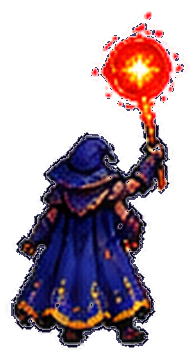
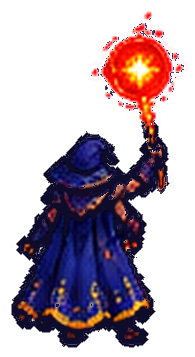
v45: poses de balanço reescaladas (sem encolher), borda branca removida
Claude-Session: https://claude.ai/code/session_01YFC38PcyDKAfPNhJ7r1cKG

diff --git a/sw.js b/sw.js
@@ -1,4 +1,4 @@
-const CACHE='bd1-rpg-v44';
+const CACHE='bd1-rpg-v45';
 const ASSETS=['./','./index.html','./game.html','./lobby.js','./lobby.css','./select_plate.webp','./char_mage.webp','./char_knight.webp','./char_tank.webp','./char_assassin.webp','./panel_mage.webp','./panel_knight.webp','./panel_tank.webp','./panel_assassin.webp','./style.css','./app.js','./anim.js','./mage.js','./mage3/air.png','./mage3/atk1.png','./mage3/atk2.png','./mage3/atk3.png','./mage3/bh1.png','./mage3/bh2.png','./mage3/castdef.png','./mage3/defair.png','./mage3/defearth.png','./mage3/deffire.png','./mage3/defmana.png','./mage3/defwater.png','./mage3/dodge1.png','./mage3/dodge2.png','./mage3/dodge3.png','./mage3/dodge4.png','./mage3/earth.png','./mage3/fire.png','./mage3/fx_air_swirl.png','./mage3/fx_bh_big.png','./mage3/fx_bh_big2.png','./mage3/fx_bh_small.png','./mage3/fx_bh_spikes.png','./mage3/fx_bolt.png','./mage3/fx_comet.png','./mage3/fx_cross.png','./mage3/fx_crystal.png','./mage3/fx_earth_spikes.png','./mage3/fx_fire_fall.png','./mage3/fx_mana_aura.png','./mage3/fx_orb_blue.png','./mage3/fx_orb_orange.png','./mage3/fx_orb_red.png','./mage3/fx_orbb.png','./mage3/fx_ring_floor.png','./mage3/fx_rock.png','./mage3/fx_rocks.png','./mage3/fx_star_big.png','./mage3/fx_star_small.png','./mage3/fx_water_pillar.png','./mage3/fx_whirl.png','./mage3/idle1.png','./mage3/idle2.png','./mage3/idle3.png','./mage3/idle4.png','./mage3/meta.json','./mage3/spin1.png','./mage3/spinwide.png','./mage3/stars.png','./mage3/swingf.png','./mage3/swingl.png','./mage3/swingr.png','./mage3/water.png','./anim/manifest.json','./spr_mage.webp','./spr_knight.webp','./spr_tank.webp','./spr_assassin.webp','./spr_boss.webp','./game_clean.png','./question_panel.png','./icon_attack.png','./icon_coin.png','./manifest.webmanifest','./potion_hp.png','./potion_mana.png'];
 // Tudo em cache (abre instantâneo, até offline). Em segundo plano o SW confere a rede (requisição condicional, barata);
 // se algum arquivo mudou, atualiza o cache e avisa a página, que recarrega sozinha (menu) ou mostra o aviso (jogo).

diff --git a/tools/post_outline.py b/tools/post_outline.py
@@ -28,8 +28,18 @@ for name, m in M['poses'].items():
     lb, kb = ndi.label(bodym)
     if kb: sb = ndi.sum(bodym, lb, range(1, kb + 1)); bodym = np.isin(lb, np.where(sb > 150)[0] + 1)
     nb = ndi.binary_dilation(bodym, iterations=4)
+    semi = (a < 250) & (a > 0) & (lum < 100) & ~fxpix & ~near_orb
+    im[..., 3][semi] = 0; a = im[..., 3].astype(int)
+    gl = (sat < 30) & (lum < 100) & ~near_orb | (a == 0)
+    lg, kg = ndi.label(gl); edgeids = set(np.unique(np.concatenate([lg[0], lg[-1], lg[:, 0], lg[:, -1]]))) - {0}
+    flat = np.isin(lg, list(edgeids)) & (a > 0)
+    im[..., 3][flat] = 0; a = im[..., 3].astype(int)
+    gray = (a < 255) & (a > 0) & (sat < 38) & ~bodym & ~near_orb
+    im[..., 3][gray] = 0; a = im[..., 3].astype(int)
     outside = a < 30; edge = ndi.binary_dilation(outside, iterations=3) & (a > 0) & nb
-    fr = edge & whitish & ~near_orb
+    e2 = ndi.binary_dilation(im[..., 3] < 200, iterations=3) & (a > 0) & nb
+    pale = (((mn > 100) & (sat < 115) & (lum > 105)) | ((sat < 62) & (lum > 72))) & e2 & ~near_orb
+    fr = (edge & whitish & ~near_orb) | pale
     # 3) pontos brancos internos pequenos (não do orbe)
     lw, kw = ndi.label(whitish & (a > 60))
     if kw:

diff --git a/tools/bake_grad.py b/tools/bake_grad.py
@@ -4,7 +4,7 @@ sys.path.insert(0, 'tools')
 from recorta_folha3 import extract_all
 from PIL import Image
 from scipy import ndimage as ndi
-SRC = sys.argv[1]; S = 1.95; TMP = '/tmp/g1'
+SRC = sys.argv[1]; S = float(sys.argv[2]) if len(sys.argv) > 2 else 2.45; TMP = '/tmp/g1'
 shutil.rmtree(TMP, ignore_errors=True)
 m = extract_all(SRC, TMP, S=S)
 PICK = {'spin1':'p_3_4', 'stars':'p_3_5', 'spinwide':'p_3_6', 'swingf':'p_3_7', 'swingl':'p_3_8', 'swingr':'p_3_9'}

diff --git a/README.md b/README.md
@@ -187,3 +187,7 @@ Animações por código removidas de vez. `anim.js` toca sprite sheets desenhado
 - Poses da Maga com contorno escuro e sem pontos brancos (tools/post_outline.py, roda depois de cut_white/bake_grad).
 - Projéteis viraram luz suave com rastro e fagulhas; brilho pulsante no cajado; poses de carregamento (castdef, bolha de mana, mãos elementais).
 - Sem andar/correr; mais variantes de ataque, mágica e golpe forte; idle calmo, movimentos extras raros e aleatórios.
+
+## v45
+- Poses de giro/balanço do cajado reescaladas (estavam ~20% menores) — Maga mantém o mesmo tamanho em todas as animações.
+- Borda branca/cinza removida: post_outline.py agora limpa franjas claras, halos cinza e fundo plano antes do contorno escuro.
